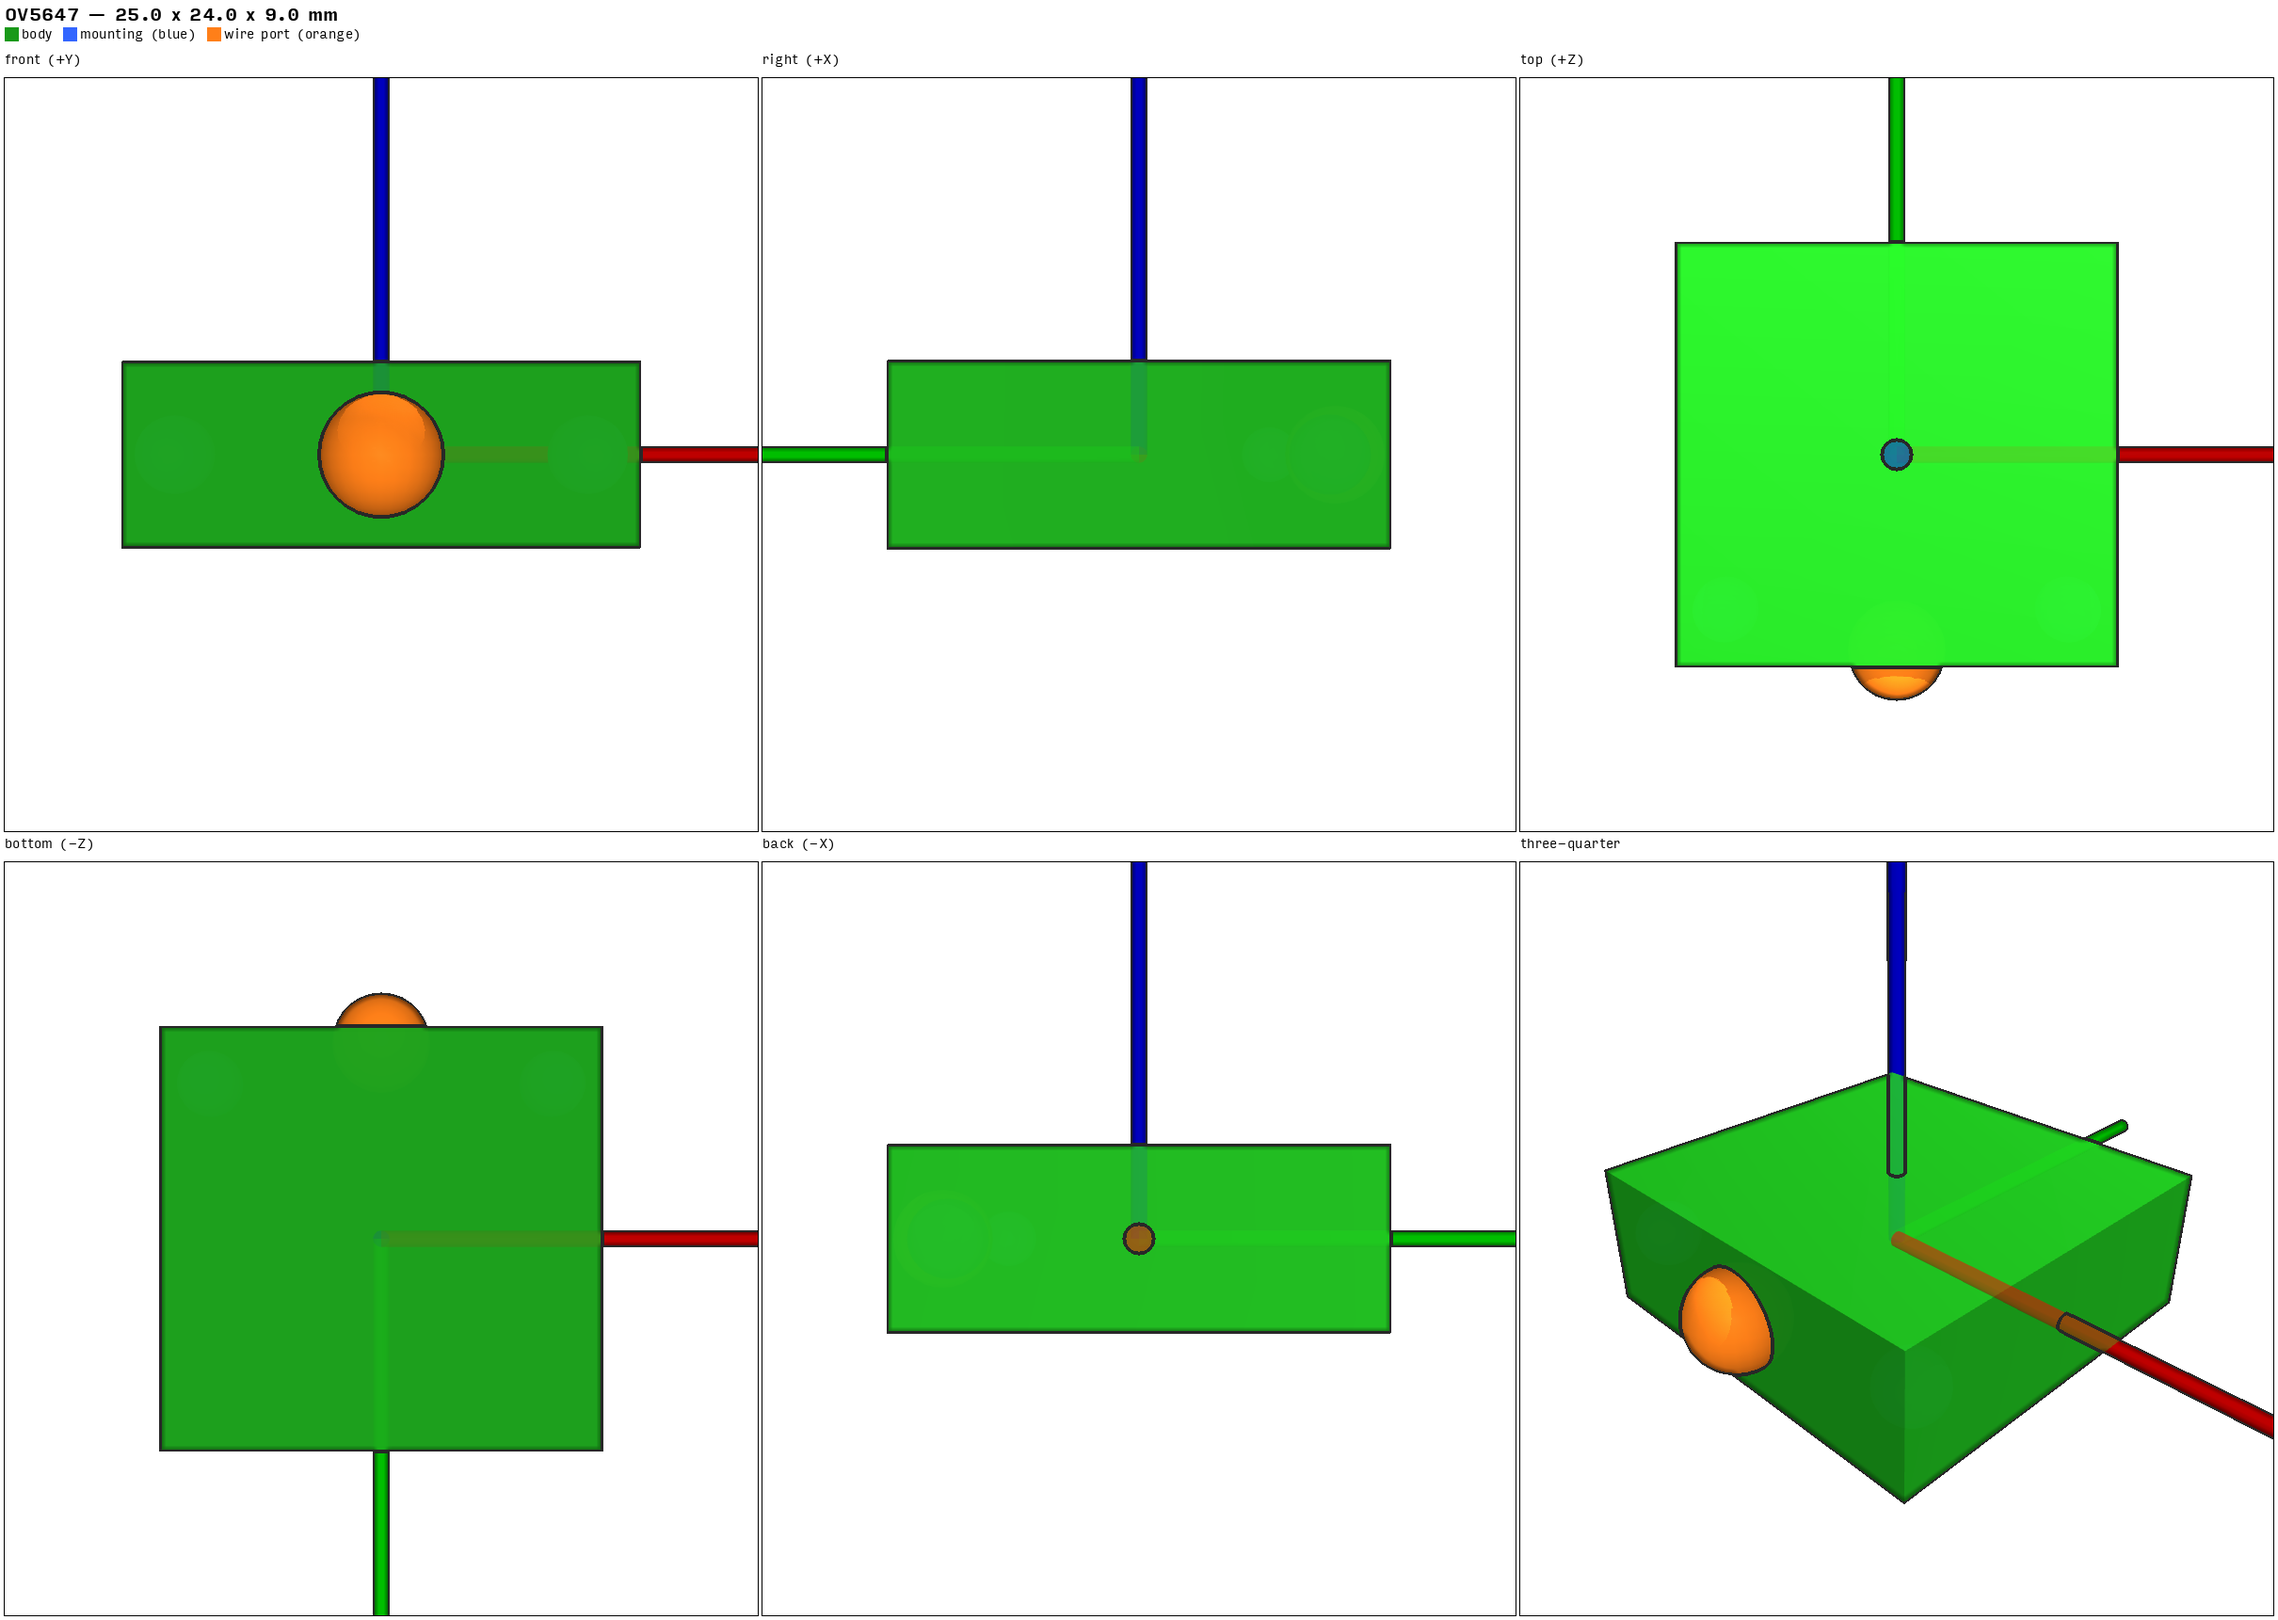
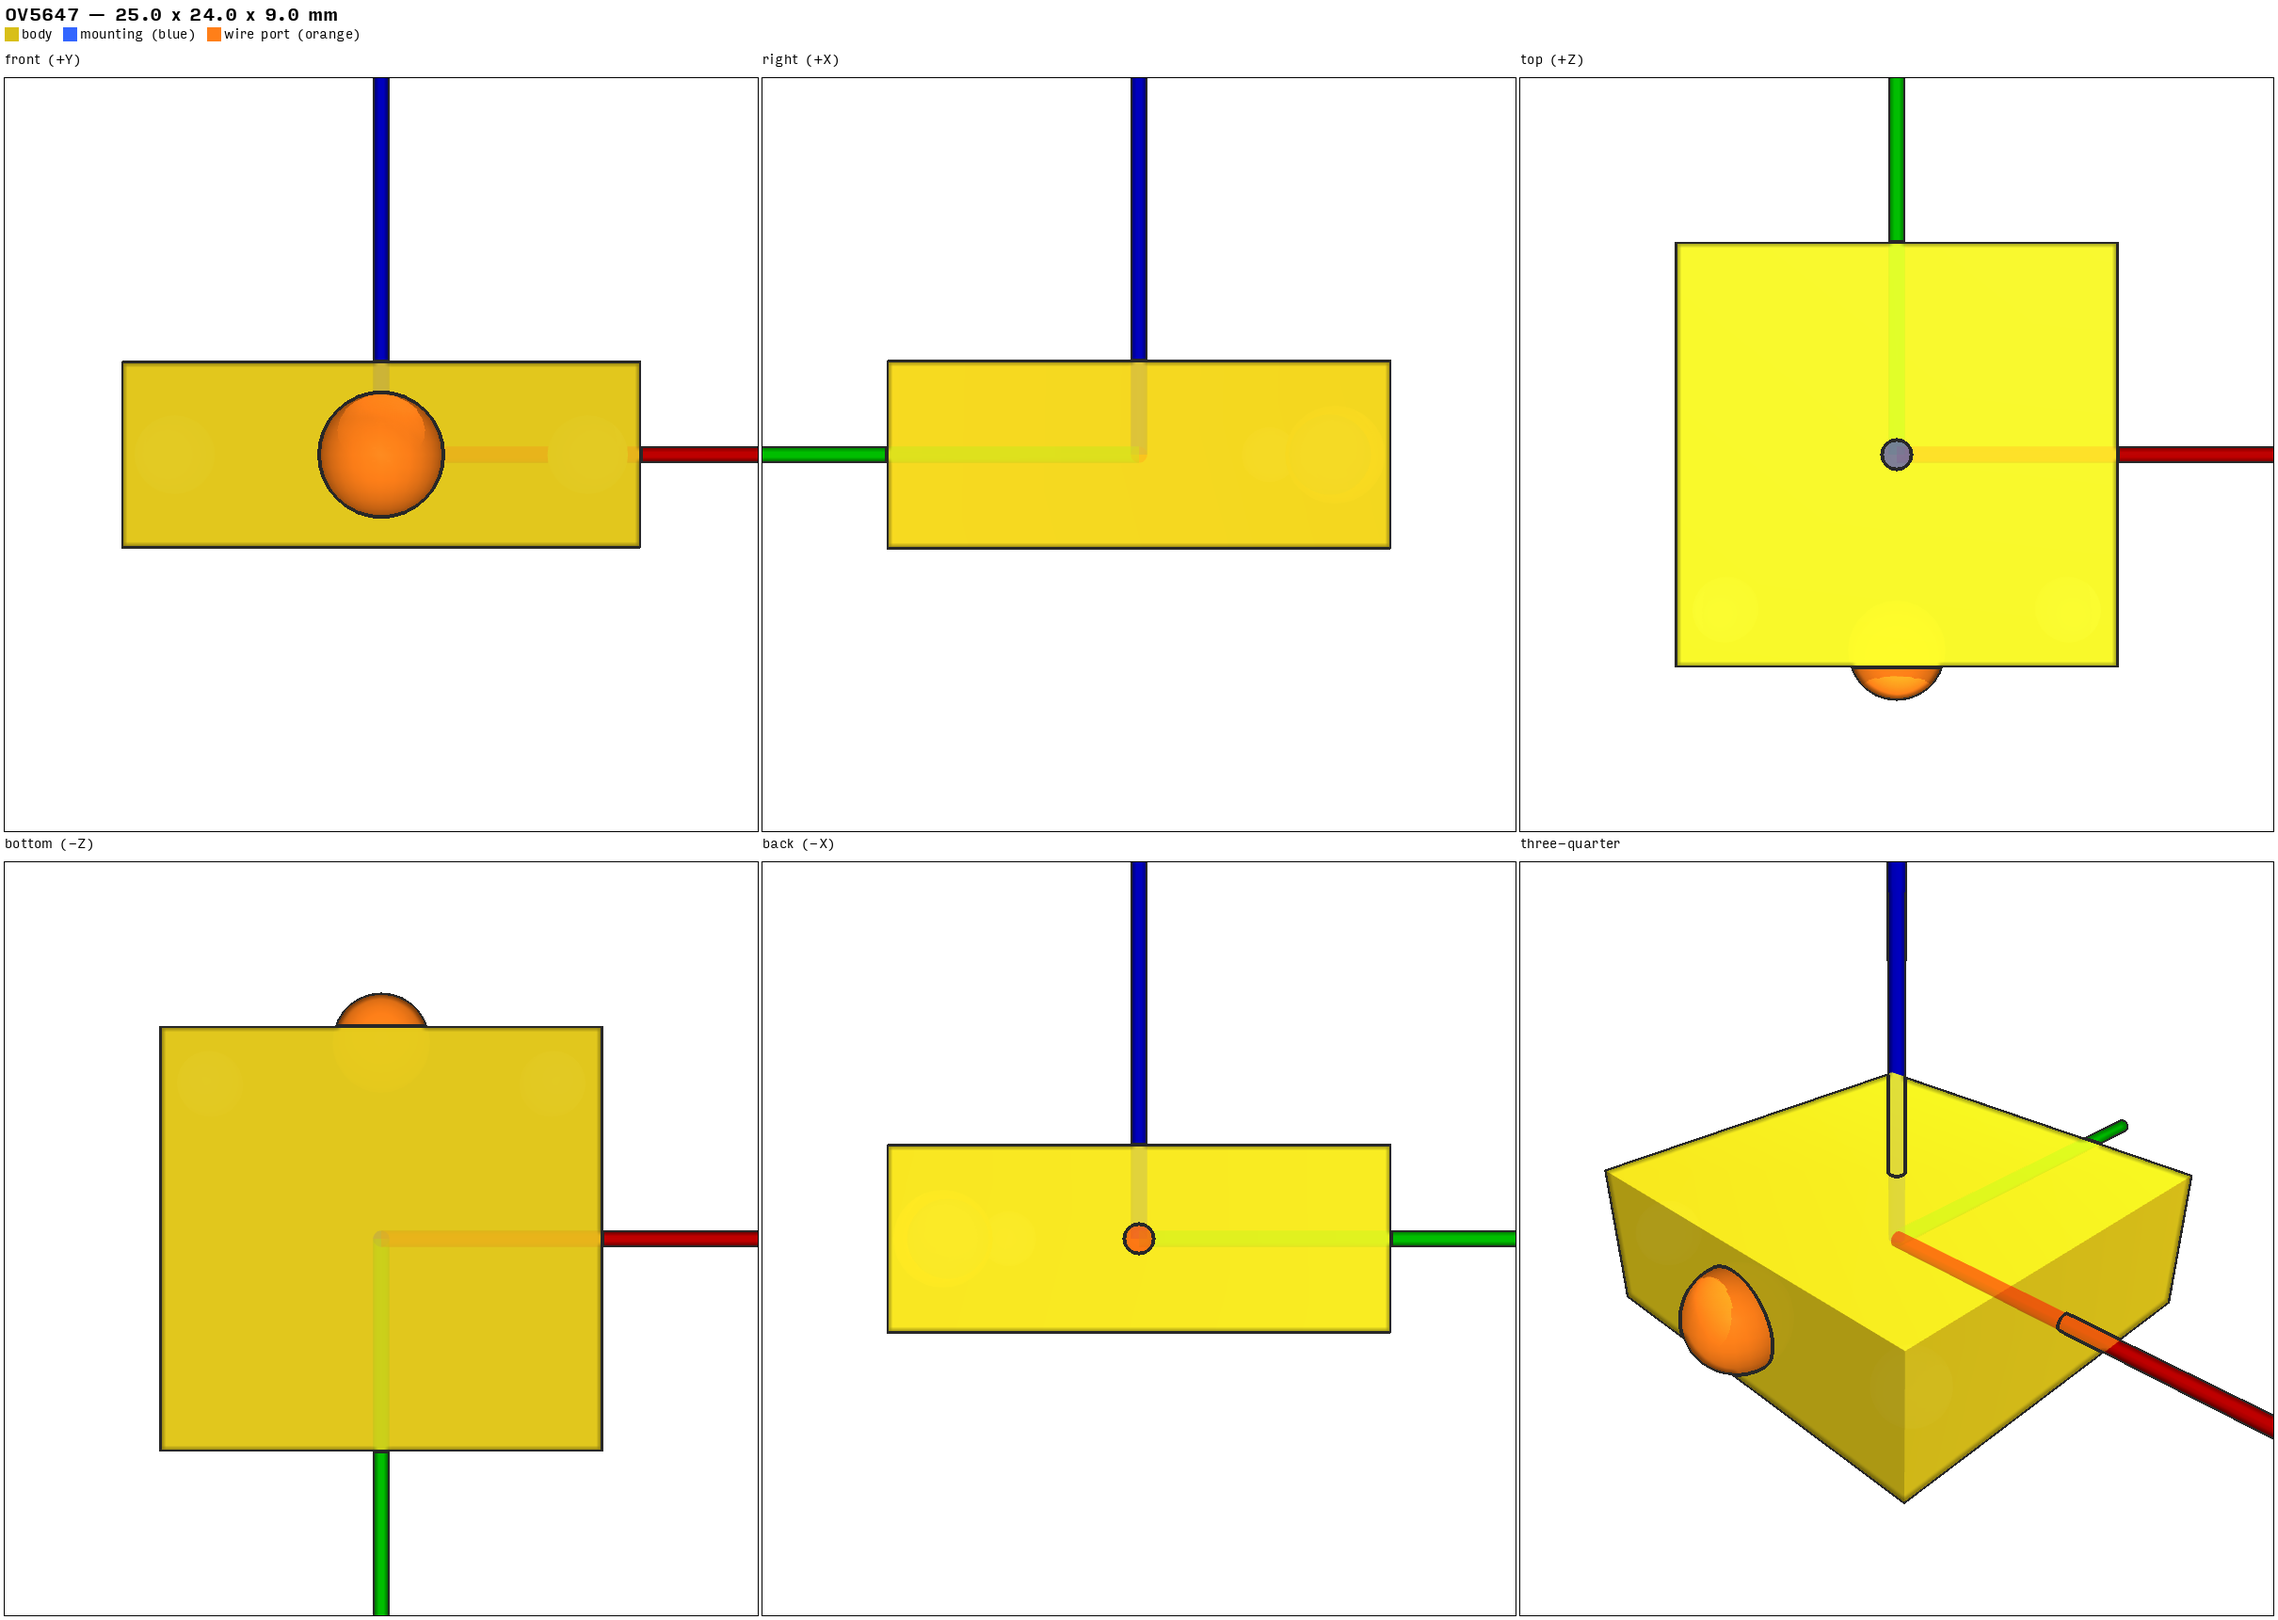
Fix servo brackets, wheel offset, and camera color for wheeler_base
Three structural fixes for printability:

1. Servo brackets for wheel joints: removed the child_has_wheel skip
   condition in cad.py that suppressed bracket geometry. Brackets are
   now generated normally; the wheel clearance cut (which runs after)
   removes any interfering material. Servos now have proper pocket
   brackets with ear ledges and screw holes.

2. Wheel outboard offset: wheels were centered at the joint (shaft)
   position, overlapping the servo body by ~5mm. Now offset outward
   by shaft_boss_height + half_wheel_width (7.8mm for STS3215 + Pololu
   90mm). The MuJoCo joint anchor compensates so the rotation axis
   stays at the shaft. Applied consistently in both MuJoCo and CAD
   emitters.

3. Camera color: OV5647 changed from PCB green (0.1, 0.6, 0.1) to
   yellow (0.85, 0.75, 0.1) for visual distinction from the Pi and
   better schematic similarity to the physical camera module.

diff --git a/botcad/emit/cad.py b/botcad/emit/cad.py
@@ -250,11 +250,23 @@ def _compute_world_positions(bot: Bot) -> dict[str, tuple[float, float, float]]:
         positions[body.name] = parent_world_pos
         for joint in body.joints:
             if joint.child is not None:
-                child_pos = (
-                    parent_world_pos[0] + joint.pos[0],
-                    parent_world_pos[1] + joint.pos[1],
-                    parent_world_pos[2] + joint.pos[2],
-                )
+                child = joint.child
+                # Wheel bodies are offset outward from the joint along the axis
+                has_wheel = any("Wheel" in m.component.name for m in child.mounts)
+                if has_wheel and child.shape == "cylinder":
+                    offset = _wheel_outboard_offset(joint, child)
+                    ax, ay, az = joint.axis
+                    child_pos = (
+                        parent_world_pos[0] + joint.pos[0] + ax * offset,
+                        parent_world_pos[1] + joint.pos[1] + ay * offset,
+                        parent_world_pos[2] + joint.pos[2] + az * offset,
+                    )
+                else:
+                    child_pos = (
+                        parent_world_pos[0] + joint.pos[0],
+                        parent_world_pos[1] + joint.pos[1],
+                        parent_world_pos[2] + joint.pos[2],
+                    )
                 _walk(joint.child, child_pos)
 
     if bot.root:
@@ -515,31 +527,18 @@ def _make_body_solid(
         )
         euler = _quat_to_euler(quat)
 
-        # Wheel joints: cut pocket only, no bracket union.
-        # Solid body material provides structural support; adding bracket
-        # walls would protrude past the body surface and collide with the wheel.
-        child_has_wheel = joint.child is not None and any(
-            "Wheel" in m.component.name for m in joint.child.mounts
-        )
-
         if joint.bracket_style == "coupler":
             envelope = cradle_envelope(servo, bracket_spec)
             envelope = envelope.locate(Location(center, euler))
-            if child_has_wheel:
-                shell = shell - envelope
-            else:
-                cradle = cradle_solid(servo, bracket_spec)
-                cradle = cradle.locate(Location(center, euler))
-                shell = _to_compound(_bool_cut(shell, envelope).fuse(cradle))
+            cradle = cradle_solid(servo, bracket_spec)
+            cradle = cradle.locate(Location(center, euler))
+            shell = _to_compound(_bool_cut(shell, envelope).fuse(cradle))
         else:
             envelope = bracket_envelope(servo, bracket_spec)
             envelope = envelope.locate(Location(center, euler))
-            if child_has_wheel:
-                shell = shell - envelope
-            else:
-                bracket = bracket_solid(servo, bracket_spec)
-                bracket = bracket.locate(Location(center, euler))
-                shell = (shell - envelope) + bracket
+            bracket = bracket_solid(servo, bracket_spec)
+            bracket = bracket.locate(Location(center, euler))
+            shell = (shell - envelope) + bracket
 
     # Cut clearance volumes for rotating child bodies
     for joint in body.joints:
@@ -679,6 +678,17 @@ def _rotate_solid(solid, axis: tuple[float, float, float], angle_rad: float):
     return solid.moved(Location((0, 0, 0), euler))
 
 
+def _wheel_outboard_offset(joint: Joint, child: Body) -> float:
+    """Compute how far a wheel sits outboard from the joint (shaft).
+
+    The wheel hub mates with the servo shaft boss, so the wheel's inner face
+    is approximately at the boss tip. Offset = boss_height + half_wheel_width.
+    """
+    boss_h = joint.servo.shaft_boss_height or 0.0
+    half_w = (child.width or child.dimensions[2]) / 2
+    return boss_h + half_w
+
+
 def _child_clearance_volume(child: Body, joint: Joint):
     """Compute the volume swept by a child body through its joint range.
 
@@ -708,8 +718,19 @@ def _child_clearance_volume(child: Body, joint: Joint):
             rotated = _rotate_solid(envelope, joint.axis, angle)
             clearance = clearance + rotated  # boolean union
 
-    # Position at joint.pos in parent frame
-    return clearance.moved(Location(joint.pos))
+    # Position at joint.pos in parent frame, offset outboard for wheels
+    has_wheel = any("Wheel" in m.component.name for m in child.mounts)
+    if has_wheel and child.shape == "cylinder":
+        offset = _wheel_outboard_offset(joint, child)
+        ax, ay, az = joint.axis
+        pos = (
+            joint.pos[0] + ax * offset,
+            joint.pos[1] + ay * offset,
+            joint.pos[2] + az * offset,
+        )
+    else:
+        pos = joint.pos
+    return clearance.moved(Location(pos))
 
 
 def _make_wheel_solid(radius: float, width: float):

diff --git a/botcad/emit/mujoco.py b/botcad/emit/mujoco.py
@@ -179,7 +179,19 @@ def _emit_body_tree(
             ground_clearance = _estimate_ground_clearance(body, bot)
             attribs["pos"] = f"0 0 {ground_clearance:.4f}"
     elif parent_joint is not None:
-        attribs["pos"] = _fmt_vec3(parent_joint.pos)
+        if parent_joint.servo.continuous and body.shape == "cylinder":
+            # Wheel child body: offset outward from servo along joint axis
+            # so the wheel clears the servo body + shaft boss.
+            wheel_offset = _wheel_outboard_offset(parent_joint, body)
+            ax, ay, az = parent_joint.axis
+            child_pos = (
+                parent_joint.pos[0] + ax * wheel_offset,
+                parent_joint.pos[1] + ay * wheel_offset,
+                parent_joint.pos[2] + az * wheel_offset,
+            )
+            attribs["pos"] = _fmt_vec3(child_pos)
+        else:
+            attribs["pos"] = _fmt_vec3(parent_joint.pos)
 
     body_el = SubElement(parent_el, "body", **attribs)
 
@@ -206,10 +218,21 @@ def _emit_body_tree(
             damping = 0.01
         else:
             damping = parent_joint.servo.damping
+        # For wheel bodies offset outward, the joint anchor must point back
+        # to the shaft position (compensate the body offset).
+        if parent_joint.servo.continuous and body.shape == "cylinder":
+            wheel_offset = _wheel_outboard_offset(parent_joint, body)
+            ax, ay, az = parent_joint.axis
+            joint_pos = _fmt_vec3(
+                (-ax * wheel_offset, -ay * wheel_offset, -az * wheel_offset)
+            )
+        else:
+            joint_pos = "0 0 0"
+
         joint_attribs: dict[str, str] = {
             "name": parent_joint.name,
             "type": "hinge",
-            "pos": "0 0 0",
+            "pos": joint_pos,
             "axis": _fmt_vec3(parent_joint.axis),
             "damping": f"{damping:.4f}",
         }
@@ -527,6 +550,17 @@ def _add_imu_sensors(sensor_el: Element, bot: Bot) -> None:
     """Add IMU sensors (gyro + accelerometer) on the base body."""
     SubElement(sensor_el, "gyro", name="imu_gyro", site="imu")
     SubElement(sensor_el, "accelerometer", name="imu_accel", site="imu")
+
+
+def _wheel_outboard_offset(joint: Joint, child: Body) -> float:
+    """Compute how far a wheel child body sits outboard from the joint (shaft).
+
+    The wheel hub mates with the servo shaft boss, so the wheel's inner face
+    is approximately at the boss tip. Offset = boss_height + half_wheel_width.
+    """
+    boss_h = joint.servo.shaft_boss_height or 0.0
+    half_w = (child.width or child.dimensions[2]) / 2
+    return boss_h + half_w
 
 
 def _estimate_ground_clearance(root_body: Body, bot: Bot) -> float:

diff --git a/botcad/components/camera.py b/botcad/components/camera.py
@@ -37,7 +37,7 @@ def OV5647() -> CameraSpec:
                 fastener_type="M2",
             ),
         ),
-        color=(0.1, 0.6, 0.1, 1.0),  # PCB green
+        color=(0.85, 0.75, 0.1, 1.0),  # yellow — distinct from PCB green
     )
 
 
@@ -69,5 +69,5 @@ def PiCamera2() -> CameraSpec:
                 fastener_type="M2",
             ),
         ),
-        color=(0.1, 0.6, 0.1, 1.0),
+        color=(0.85, 0.75, 0.1, 1.0),  # yellow — distinct from PCB green
     )
